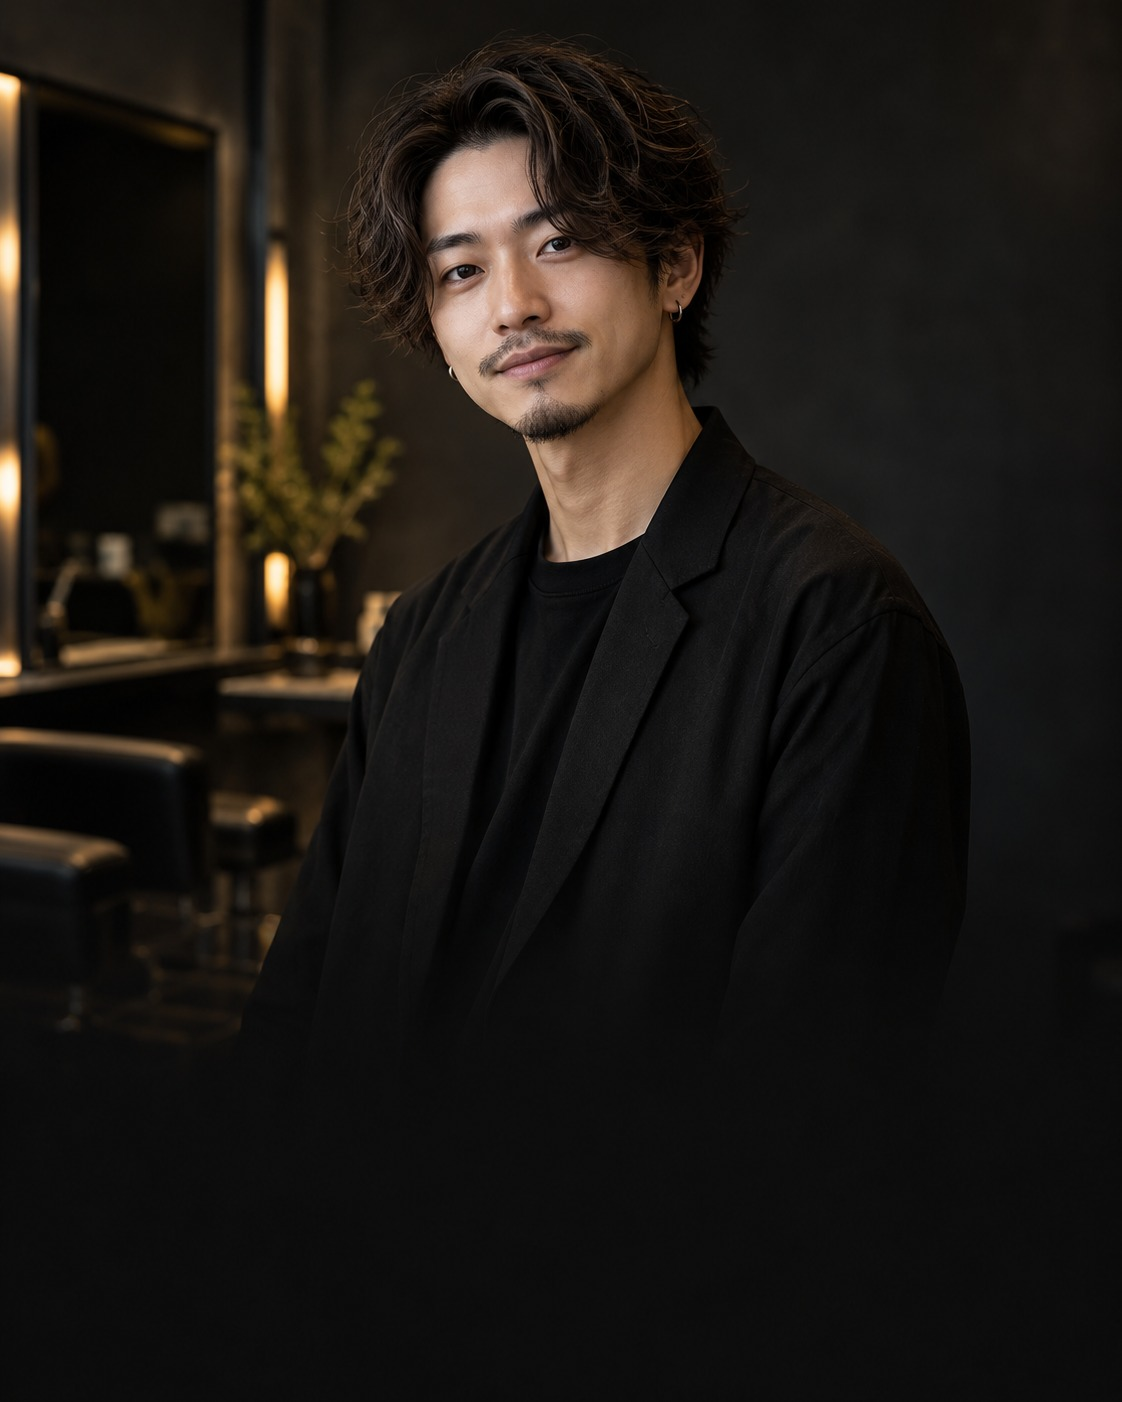
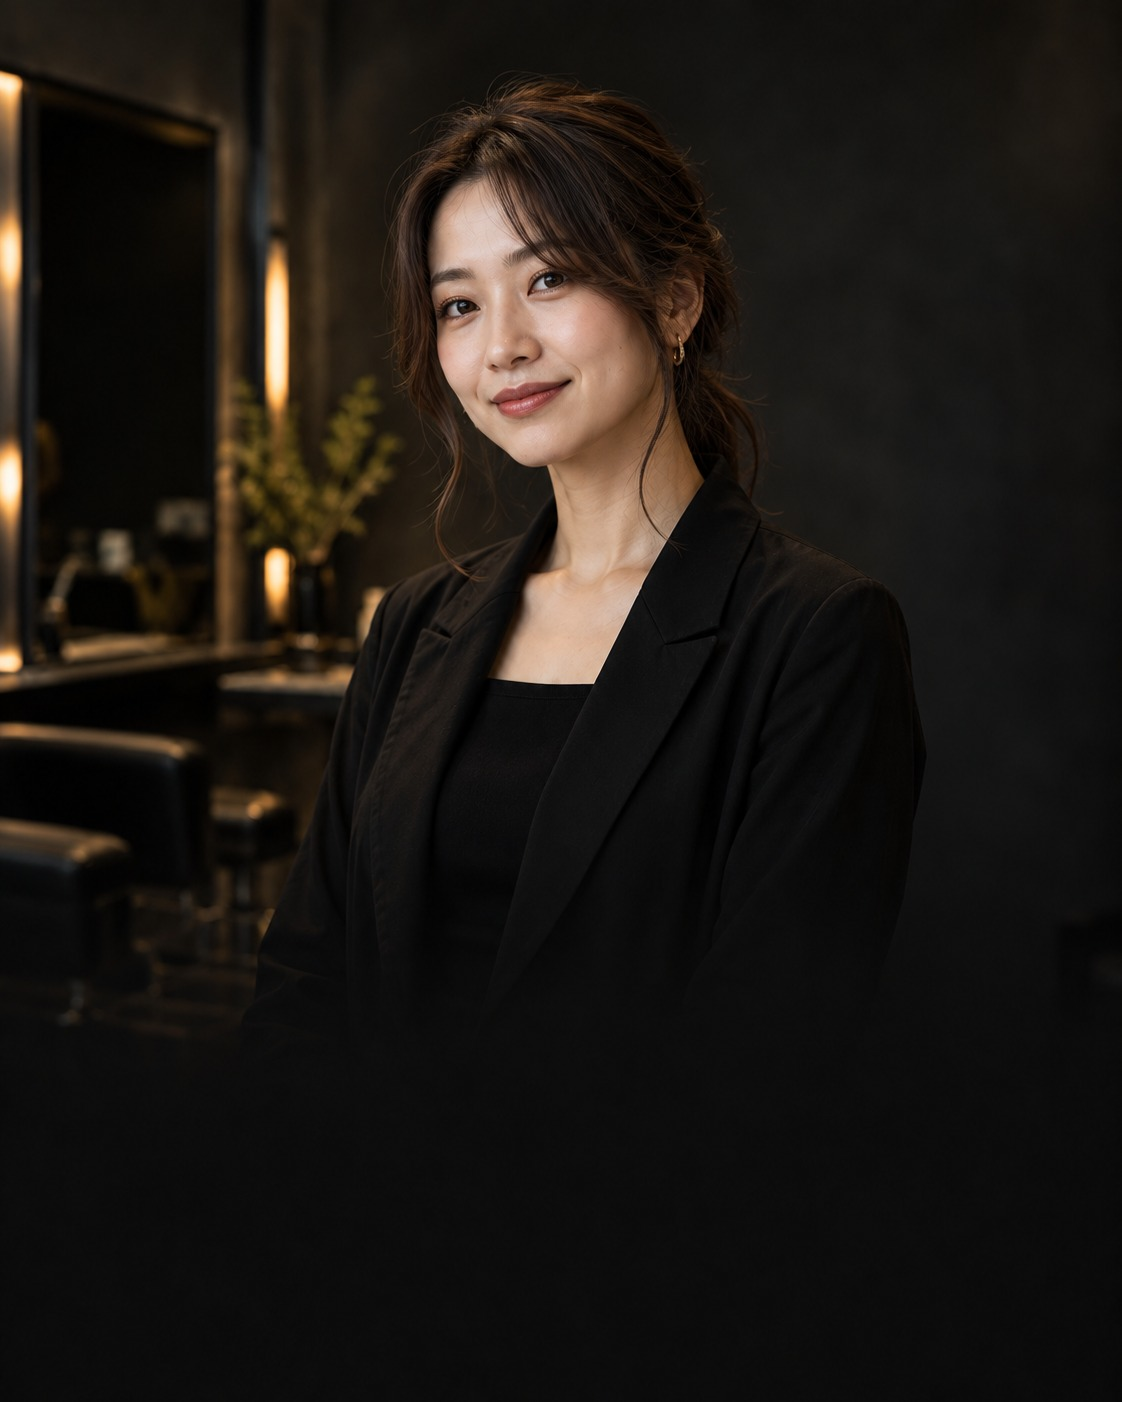
Match staff photos to names and fix placeholder names
- Swap staff-01.jpg and staff-02.jpg so 佐藤 エレナ and 高橋 蓮 show the
  matching portraits
- Replace the garbled placeholder names in CONTENTS.md with the names
  used on the site (佐藤 エレナ, 中村 悠)
- Drop the resolved item from CLAUDE.md known gaps

Claude-Session: https://claude.ai/code/session_01EkhNuGPHM7tF82FovPW166

diff --git a/docs/CONTENTS.md b/docs/CONTENTS.md
@@ -89,9 +89,9 @@ DESIGN.md（見た目の仕様）と対になり、CONTENTS.md（この文書）
 
 | No  | 氏名           | 役職 / 得意メニュー           | プロフィール                                                                 | 画像                                             |
 | --- | -------------- | ------------------------------ | ----------------------------------------------------------------------------- | ------------------------------------------------ |
-| 01  | 佐藤 elena（仮）    | 店長 / 似合わせカット・カラー   | 骨格診断をもとにしたカウンセリングが得意。丁寧なヒアリングで、なりたい理想を一緒に叶えます。 | /images/staff-01.jpg（alt: 佐藤スタイリストの写真） |
+| 01  | 佐藤 エレナ（仮）   | 店長 / 似合わせカット・カラー   | 骨格診断をもとにしたカウンセリングが得意。丁寧なヒアリングで、なりたい理想を一緒に叶えます。 | /images/staff-01.jpg（alt: 佐藤スタイリストの写真） |
 | 02  | 高橋 蓮（仮）      | トップスタイリスト / メンズカット | メンズスタイルとパーマを得意とし、再現性の高いスタイリングを提案します。         | /images/staff-02.jpg（alt: 高橋スタイリストの写真） |
-| 03  | 中村 optional（仮） | アシスタント / トリートメント   | 髪質改善トリートメントの知識が豊富。ダメージケアのカウンセリングも行います。       | /images/staff-03.jpg（alt: 中村スタッフの写真） |
+| 03  | 中村 悠（仮）       | アシスタント / トリートメント   | 髪質改善トリートメントの知識が豊富。ダメージケアのカウンセリングも行います。       | /images/staff-03.jpg（alt: 中村スタッフの写真） |
 
 ---
 

diff --git a/CLAUDE.md b/CLAUDE.md
@@ -93,7 +93,6 @@ python3 -m http.server 8000   # → http://localhost:8000/
 4. **仮の店舗情報**：住所・電話（`03-0000-0000`）・Google マップの埋め込み（現状は「表参道駅」で検索）はすべて仮です。
 5. **OGP**：`og:image` が相対パス（`./images/ogp.jpg`）です。ドメインが決まったら絶対 URL にします。`og:url` も未設定です。
 6. グローバルナビには CONCEPT がありません（フッターにはあります）。CONTENTS.md のナビ順とは違うので、変えるときは確認します。
-7. CONTENTS.md のスタッフ名には崩れた仮名があります（「佐藤 elena」「中村 optional」）。サイト側は「佐藤 エレナ / ELENA SATO」「中村 悠 / YU NAKAMURA」です。また `staff-01.jpg`（佐藤 エレナ）は男性、`staff-02.jpg`（高橋 蓮）は女性の写真で、名前と写真の印象が合っていない可能性があります。
 
 ## デザイン判断の原則（DESIGN.md より）
 
